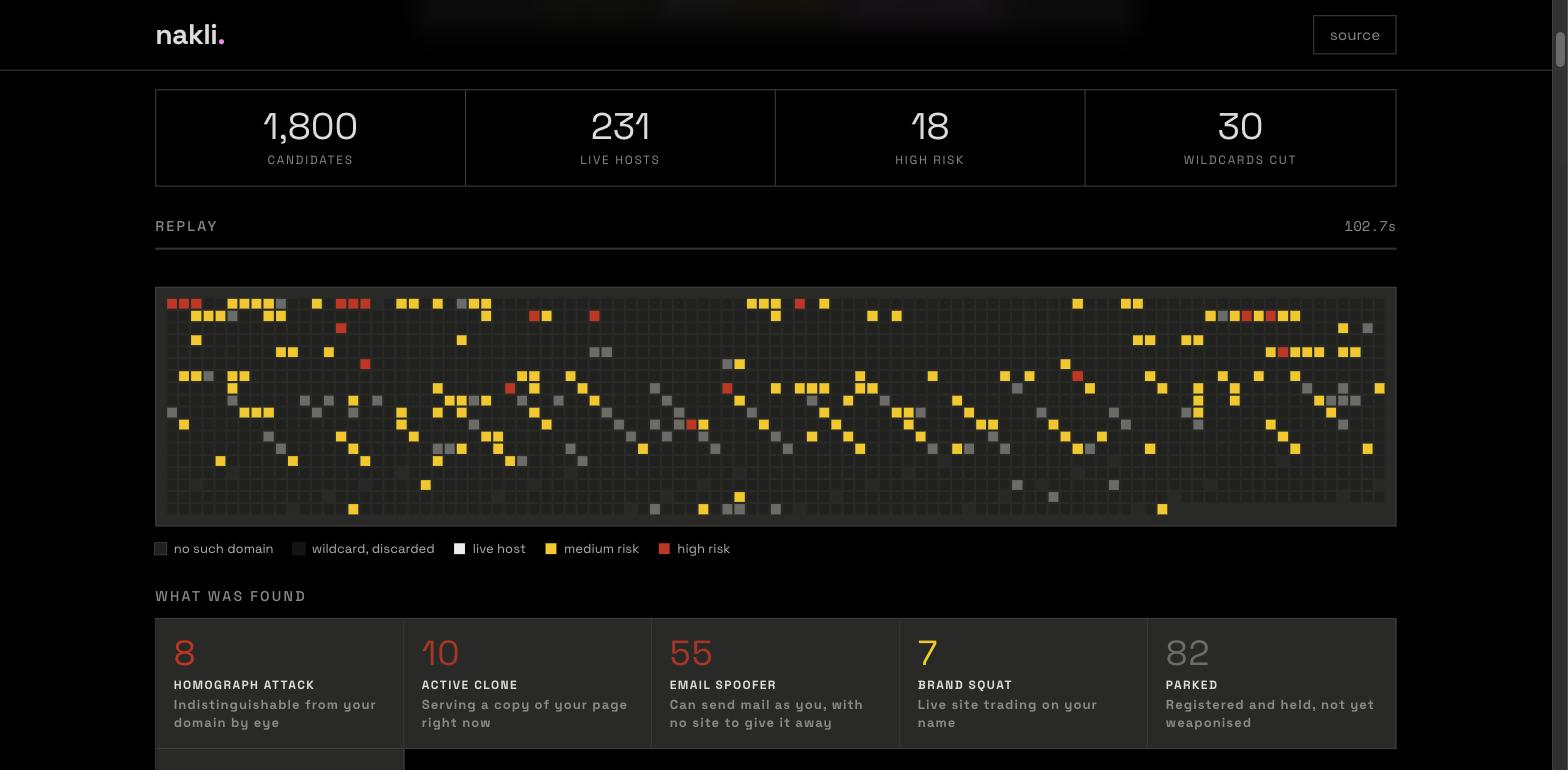
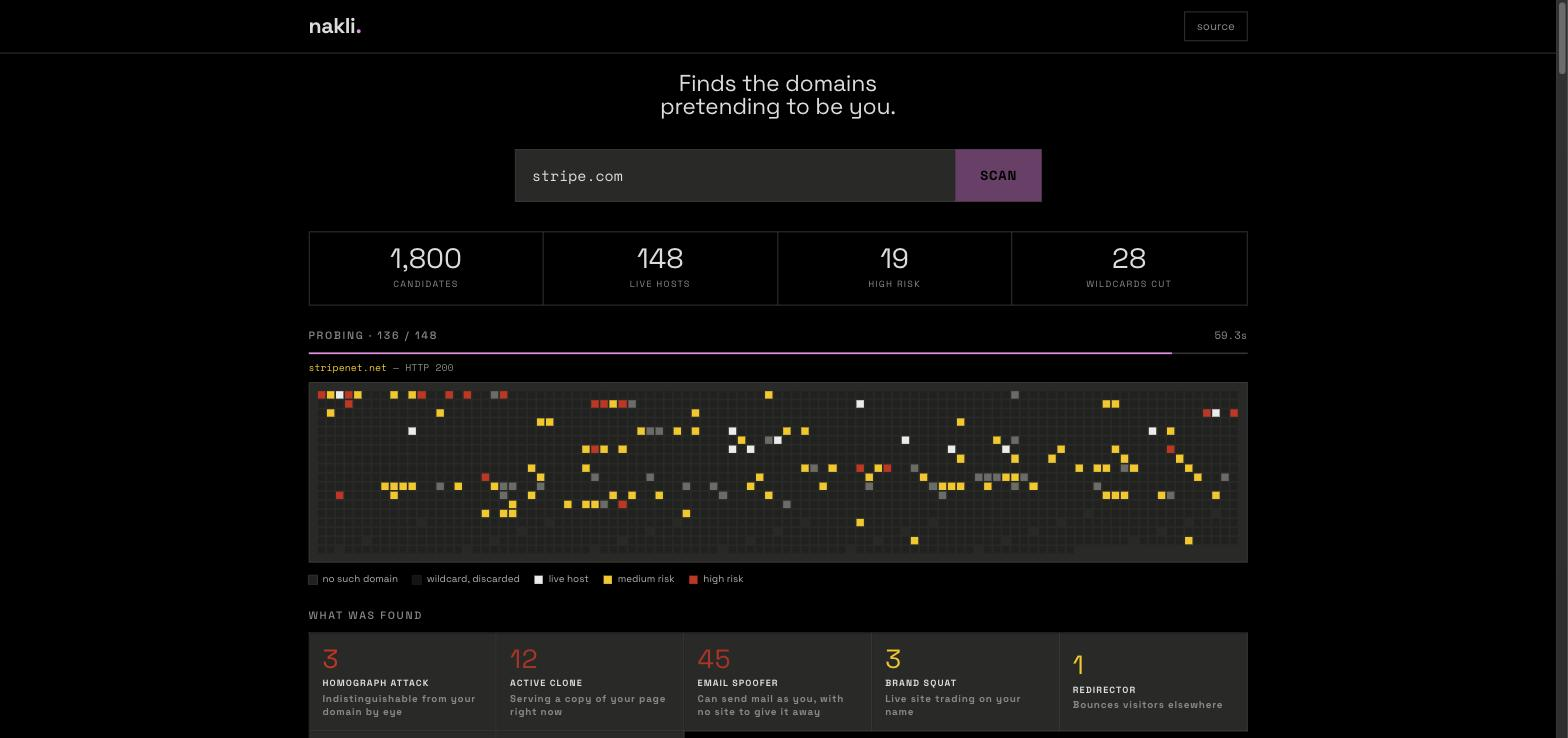
docs: refresh screenshots
Hero is now a scan in progress rather than a finished one - PROBING 136/148 with
the live ticker and the breakdown filling in proves the tool is running, which a
completed screenshot cannot.

diff --git a/web/public/index.html b/web/public/index.html
@@ -292,6 +292,24 @@ body.run .landing{display:none}
 .step ul{list-style:none;margin-top:13px;display:flex;flex-wrap:wrap;gap:6px}
 .step li{font:400 11.5px 'Space Mono',monospace;color:#b8b8b2;border:1px solid var(--line);padding:4px 9px}
 
+/* Each step carries a small artefact from the real pipeline rather than another
+   paragraph. The candidates and their tier positions come from permute.js, and
+   the point values from score.js - the tool's own output argues better than
+   prose about the tool. */
+.viz{margin-top:15px;border:1px solid var(--line);background:var(--surface);padding:13px 14px;
+  font:400 12px/1.7 'Space Mono',monospace;overflow-x:auto}
+.viz .r{display:flex;justify-content:space-between;gap:14px;white-space:nowrap}
+.viz .r i{font-style:normal;color:var(--muted)}
+.viz .head{color:var(--ink);margin-bottom:4px}
+.viz .arm{color:#8a8a85}
+.viz .d{color:#cfcfc9}
+.viz .more{color:var(--muted)}
+.viz mark{background:rgba(220,52,30,.18);color:var(--high);padding:0 2px}
+/* The total is a verdict about a domain, so it is the one thing here in red. */
+.viz .sum{display:flex;justify-content:space-between;gap:14px;align-items:baseline;
+  border-top:1px solid var(--line);margin-top:9px;padding-top:9px;color:#cfcfc9;white-space:nowrap}
+.viz .sum b{font-weight:400;color:var(--high);font-size:16px;font-family:'Space Grotesk',sans-serif}
+
 /* what it catches - labels and copy come straight from classify.js */
 .tgrid{display:grid;grid-template-columns:repeat(4,1fr);margin-top:38px;
   border:1px solid var(--line);border-right:0;border-bottom:0}
@@ -526,28 +544,46 @@ footer a:hover{color:var(--pink)}
         <div class="step">
           <div class="num">01</div>
           <h3>Permute</h3>
-          <p>One brand becomes roughly 1,800 candidate domains &mdash; character swaps, insertions and
-            omissions, homoglyph substitutions, phishing-keyword combos, and your exact name on every
-            common TLD. Candidates are emitted in priority tiers, so the highest-signal names are
-            always reached even when the limit cuts the tail.</p>
+          <p>One brand becomes ~1,800 candidates, emitted in priority tiers so the strongest signals
+            are always reached first.</p>
+          <div class="viz">
+            <div class="head">paypal.com</div>
+            <div class="r"><span><span class="arm">&#9500;</span> <span class="d">paypal.net</span></span><i>tier 1</i></div>
+            <div class="r"><span><span class="arm">&#9500;</span> <span class="d">paypal.co</span></span><i>tier 1</i></div>
+            <div class="r"><span><span class="arm">&#9500;</span> <span class="d">paypal-login.com</span></span><i>tier 2</i></div>
+            <div class="r"><span><span class="arm">&#9500;</span> <span class="d">p<mark>&#1072;</mark>ypal.com</span></span><i>homoglyph</i></div>
+            <div class="r"><span><span class="arm">&#9492;</span> <span class="more">&hellip;1,796 more</span></span><i></i></div>
+          </div>
           <ul><li>typos</li><li>homoglyphs</li><li>combosquats</li><li>TLD swaps</li></ul>
         </div>
         <div class="step">
           <div class="num">02</div>
           <h3>Probe</h3>
-          <p>Everything gets a DNS lookup, and whatever resolves is fetched over https and http at once
-            with the losing scheme aborted. Registries that resolve every name are caught by a
-            two-probe wildcard calibration and thrown out, so you are not handed hundreds of domains
-            that do not exist.</p>
-          <ul><li>DNS</li><li>HTTP</li><li>MX</li><li>favicon hash</li><li>wildcard calibration</li></ul>
+          <p>Everything gets DNS. Whatever resolves is raced over both schemes. Wildcard registries are
+            calibrated out and discarded.</p>
+          <div class="viz">
+            <div class="head">every resolving candidate</div>
+            <div class="r"><span class="d">DNS</span><i>A / AAAA</i></div>
+            <div class="r"><span class="d">HTTP</span><i>https + http, raced</i></div>
+            <div class="r"><span class="d">MX</span><i>can it receive mail</i></div>
+            <div class="r"><span class="d">favicon</span><i>hash vs baseline</i></div>
+            <div class="r"><span class="d">wildcard</span><i>2 random probes</i></div>
+          </div>
         </div>
         <div class="step">
           <div class="num">03</div>
           <h3>Score &amp; classify</h3>
-          <p>Signals add up against a live baseline of your real site: title and body similarity,
-            favicon match, a password field, MX records. The total ranks the finding, a classifier
-            names the pattern behind it, and the page as we saw it is archived.</p>
-          <ul><li>additive score</li><li>stated reasons</li><li>threat class</li><li>evidence capture</li></ul>
+          <p>Signals add up against a live baseline of your real site, and every point states its
+            reason.</p>
+          <div class="viz">
+            <div class="r"><span class="d">resolves</span><i>+15</i></div>
+            <div class="r"><span class="d">has MX (2)</span><i>+12</i></div>
+            <div class="r"><span class="d">serves HTTP 200</span><i>+15</i></div>
+            <div class="r"><span class="d">password field present</span><i>+25</i></div>
+            <div class="r"><span class="d">favicon identical to brand</span><i>+30</i></div>
+            <div class="sum"><span>p<mark>&#1072;</mark>ypal.com</span><b>97</b></div>
+          </div>
+          <ul><li>threat class</li><li>evidence capture</li></ul>
         </div>
       </div>
     </div>
@@ -557,9 +593,8 @@ footer a:hover{color:var(--pink)}
     <div class="wrap">
       <div class="kicker">What it catches</div>
       <h2>A score ranks. A class tells you what to do about it.</h2>
-      <p class="lede">A cloned login page steals credentials today. A registered domain with MX records
-        and no website is waiting to send mail as you. A parked domain is somebody speculating. Those
-        are three different problems, so nakli names them rather than handing you one number.</p>
+      <p class="lede">A cloned login page, a mail-capable domain with no website, and a parked
+        registration are three different problems. So nakli names them.</p>
 
       <div class="tgrid">
         <div class="t"><h3>Homograph attack</h3><p>Visually indistinguishable from your domain. No user can catch this by reading it.</p></div>
@@ -582,12 +617,14 @@ footer a:hover{color:var(--pink)}
           <dl>
             <dt>Punycode</dt><dd>xn--pypal-4ve.com</dd>
             <dt>Confusable</dt><dd>U+0430 CYRILLIC SMALL LETTER A &rarr; U+0061 LATIN SMALL LETTER A</dd>
-            <dt>Why it scored</dt><dd>resolves; serves HTTP 200; favicon identical to brand; password field present</dd>
+            <!-- These five reasons carry the weights in score.js and total exactly 97.
+                 Without the MX line they summed to 85 against a headline of 97. -->
+            <dt>Why it scored</dt><dd>resolves; has MX (2) - can send mail; serves HTTP 200; favicon identical to brand; password field present</dd>
           </dl>
         </div>
       </div>
-      <p class="cap">An illustrative finding, laid out exactly as the results table renders it. The
-        punycode and codepoint are real &mdash; that is what this substitution actually encodes to.</p>
+      <p class="cap">An illustrative finding, rendered exactly as the results table does. The punycode,
+        codepoint and point values are real.</p>
     </div>
   </section>
 
@@ -1008,9 +1045,9 @@ function countProof(){
 
 /** Both closing calls to action point back at the one input that matters.
  *
- *  Focus BEFORE the scroll, never after: moving focus cancels an in-flight
- *  smooth scroll, so the original order left the button doing nothing but put a
- *  caret in a box three thousand pixels off screen. */
+ *  Focus first, scroll last. `focus` takes preventScroll but `select` does not,
+ *  and either can cancel an in-flight smooth scroll, so the scroll is issued
+ *  after them rather than racing them. */
 function toScanBox(e){
   if (e) e.preventDefault()
   const q = $('#q')

diff --git a/README.md b/README.md
@@ -12,11 +12,11 @@
 
 No sign-up. Type a brand, or click one of the examples.
 
-![nakli result for paypal.com](docs/result.jpg)
+![nakli scanning stripe.com](docs/result.jpg)
 
-*Every square is one real DNS lookup — 1,800 of them, streaming live. Red squares are
-active impersonators. `paypal.com`: **18 high risk**, and **8 domains visually
-indistinguishable from the real one**.*
+*A scan in progress. Every square is one real DNS lookup — 1,800 of them — and the
+breakdown fills in as findings land. `stripe.com`: **12 domains serving a copy of
+Stripe's page**, 45 able to send mail as Stripe, 3 visually indistinguishable from it.*
 
 ---
 
@@ -55,9 +55,12 @@ brand: "paypal.com"
   ↓  archive                the page as we saw it, to object storage
 ```
 
-![scan in progress](docs/scanning.jpg)
+![paypal.com result](docs/verdict.jpg)
 
-*Mid-scan: the DNS stage reporting real progress and the domain it is checking.*
+![the candidate grid and threat breakdown](docs/grid.jpg)
+
+*`paypal.com`: 1,800 candidates, 231 live hosts, 18 high risk — and 8 domains a
+human eye cannot tell apart from the real one.*
 
 **The funnel is the trick.** 1,800 candidates collapse to ~250 live hosts, so the expensive
 HTTP work only touches ~14% of the set. That is what keeps a scan usable.
